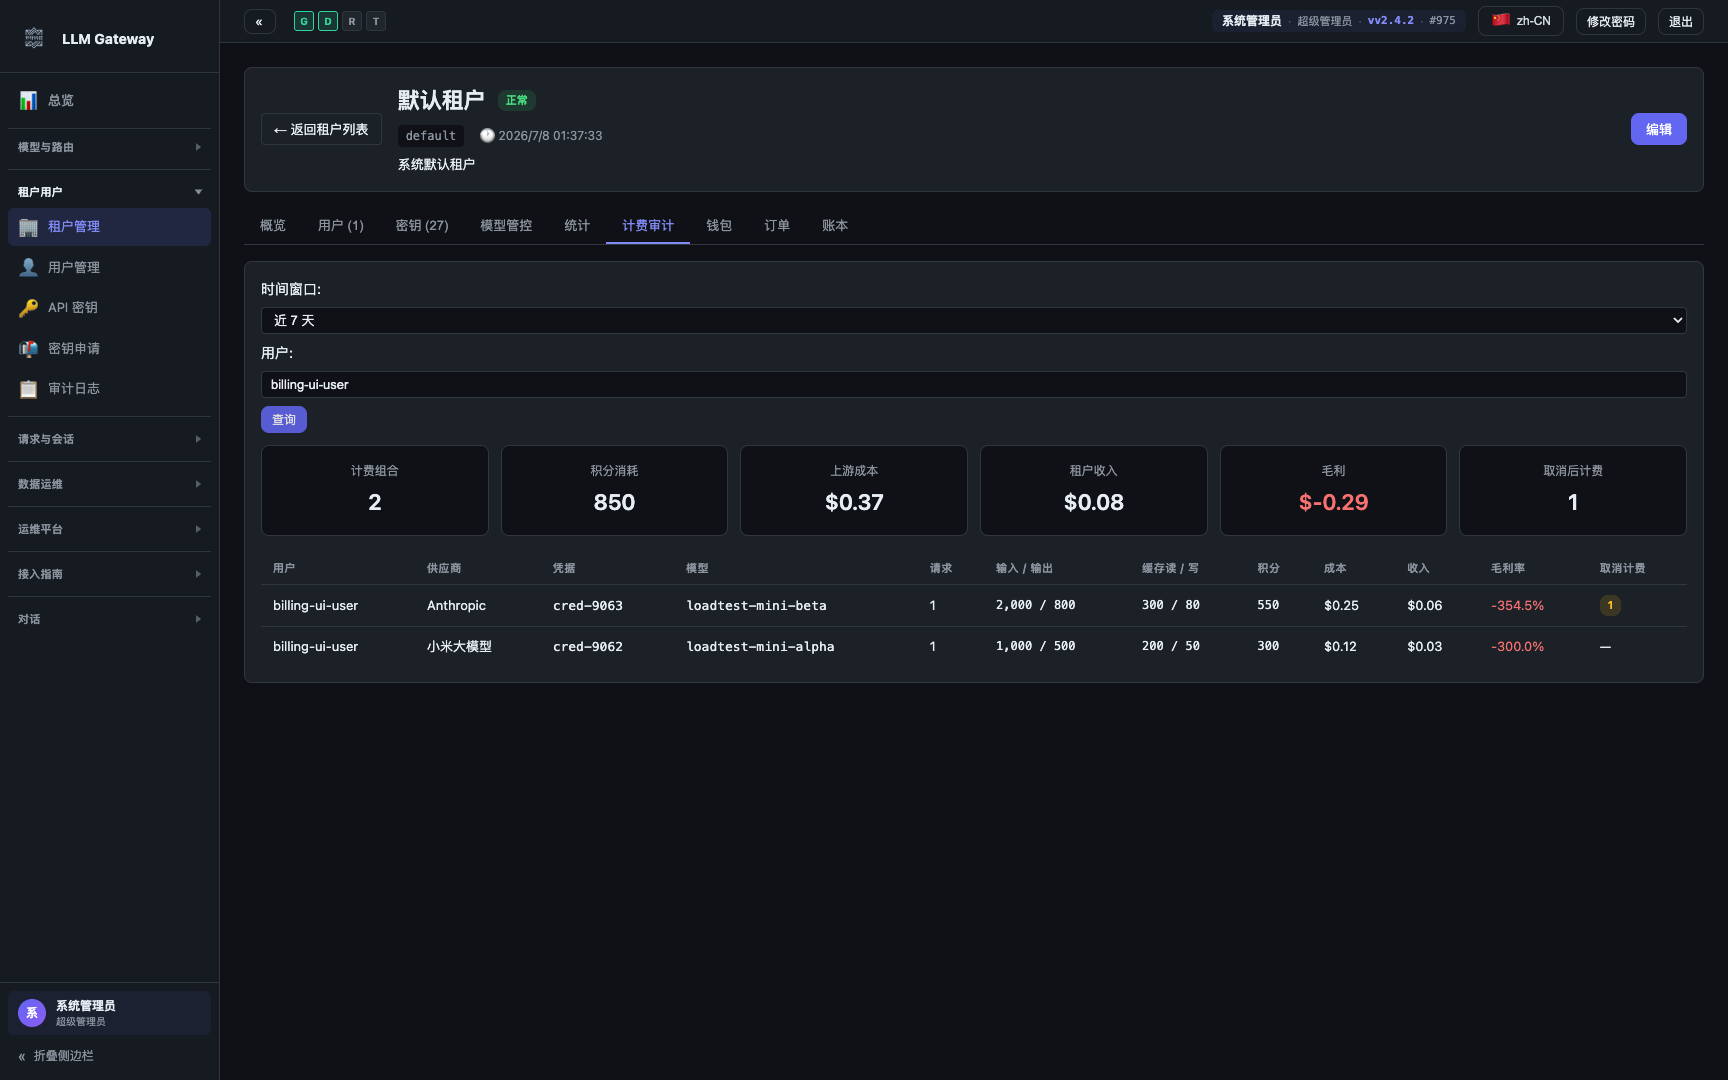
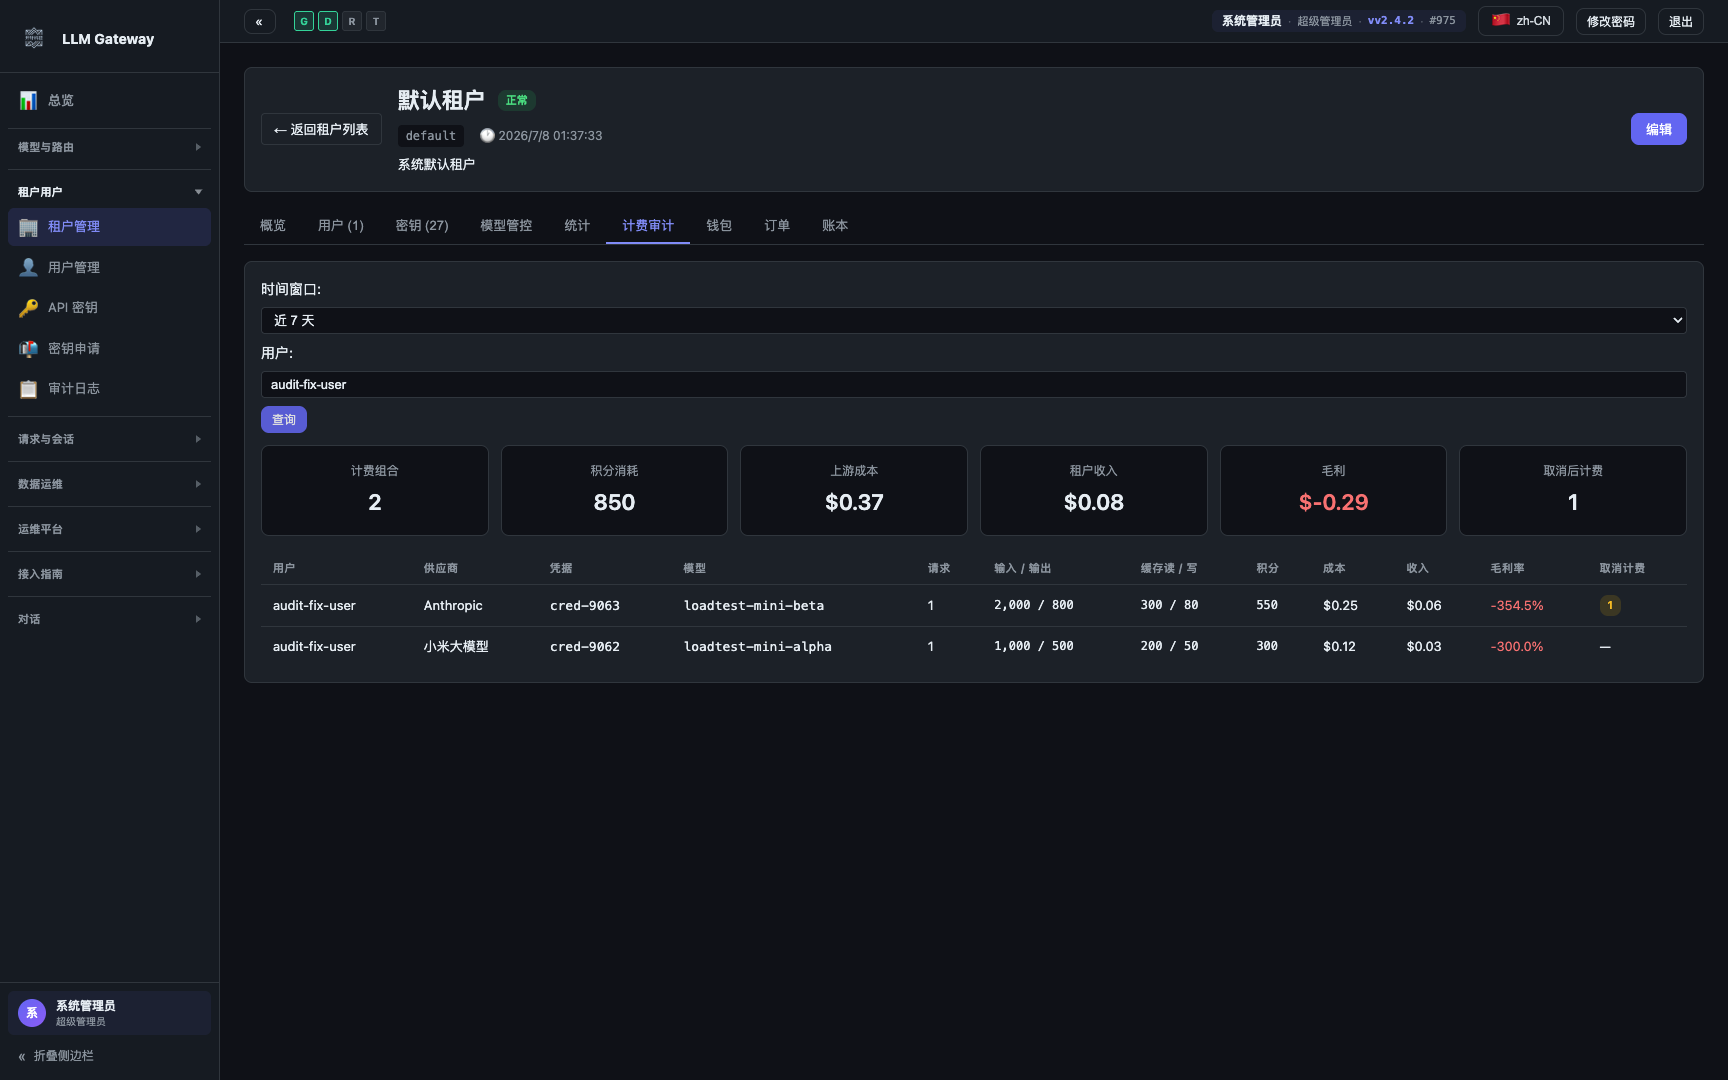
fix(billing): alias union source and reset tenant state

diff --git a/web/src/views/TenantDetailView.test.ts b/web/src/views/TenantDetailView.test.ts
@@ -2,14 +2,40 @@ import { describe, expect, it } from 'vitest'
 import { readFile } from 'node:fs/promises'
 import { resolve } from 'node:path'
 
+async function readViewSource(): Promise<string> {
+  const candidates = [
+    resolve(process.cwd(), 'web/src/views/TenantDetailView.vue'),
+    resolve(process.cwd(), 'src/views/TenantDetailView.vue'),
+  ]
+  for (const path of candidates) {
+    try {
+      return await readFile(path, 'utf8')
+    } catch {
+      // try the next candidate (running tests from repo root vs web/)
+    }
+  }
+  throw new Error('TenantDetailView.vue not found in candidate paths')
+}
+
 describe('tenant billing audit contract', () => {
   it('uses the provider, credential, model, token, and margin dimensions', async () => {
-    const source = await readFile(resolve(process.cwd(), 'web/src/views/TenantDetailView.vue'), 'utf8').catch(() =>
-      readFile(resolve(process.cwd(), 'src/views/TenantDetailView.vue'), 'utf8'))
+    const source = await readViewSource()
     expect(source).toContain("activeTab === 'billing'")
     expect(source).toContain('row.credential_label')
     expect(source).toContain('row.cache_read_tokens')
     expect(source).toContain('row.gross_margin_rate')
     expect(source).toContain('billingOwnerUser')
+  })
+
+  it('clears per-tenant state when navigating to a different tenant', async () => {
+    const source = await readViewSource()
+    expect(source).toMatch(/resetTenantScopedState\(\)/)
+    expect(source).toContain('billing.value = null')
+  })
+
+  it('refreshes billing data when filters change', async () => {
+    const source = await readViewSource()
+    expect(source).toContain('onBillingFilterChange')
+    expect(source).toMatch(/onBillingFilterChange[\s\S]*activeTab\.value === 'billing'/)
   })
 })

diff --git a/web/src/views/TenantDetailView.vue b/web/src/views/TenantDetailView.vue
@@ -45,9 +45,20 @@ const grantSaving = ref(false)
 const confirmSaving = ref<number | null>(null)
 const showCost = isPlatformOpsView()
 
+function resetTenantScopedState() {
+  users.value = []
+  keys.value = []
+  stats.value = null
+  maasWallet.value = null
+  maasLedger.value = []
+  maasOrders.value = []
+  billing.value = null
+}
+
 async function loadTenant() {
   loading.value = true
   error.value = ''
+  resetTenantScopedState()
   try {
     tenant.value = await getTenant(tenantCode.value)
     if (activeTab.value === 'users') await loadUsers()
@@ -205,6 +216,10 @@ async function switchTab(t: 'overview' | 'users' | 'keys' | 'stats' | 'billing' 
   if (t === 'wallet' && !maasWallet.value) await loadWallet()
   if (t === 'ledger' && maasLedger.value.length === 0) await loadLedger()
   if (t === 'orders' && maasOrders.value.length === 0) await loadOrders()
+}
+
+function onBillingFilterChange() {
+  if (activeTab.value === 'billing') void loadBilling()
 }
 
 async function toggleUserEnabled(u: TenantUser) {
@@ -513,7 +528,7 @@ watch(() => route.params.tenantId, loadTenant)
       <div v-if="activeTab === 'billing'" class="tab-content">
         <div class="stats-toolbar billing-toolbar">
           <label>时间窗口:</label>
-          <select v-model.number="billingDays" @change="loadBilling">
+          <select v-model.number="billingDays" @change="onBillingFilterChange">
             <option :value="1">近 1 天</option>
             <option :value="7">近 7 天</option>
             <option :value="30">近 30 天</option>

diff --git a/maas/usage.go b/maas/usage.go
@@ -60,11 +60,13 @@ func ClampUsageLimit(limit int) int {
 // requestLogsSource keeps usage queries working during upgrades where the
 // optional union view has not been created yet. request_logs_hot is an
 // independent seven-day table; request_logs contains the archived partitions.
-func requestLogsSource(days int) string {
+// The subquery MUST be aliased because PostgreSQL requires every FROM
+// subquery to have a name. The returned tuple is (FROM clause, alias).
+func requestLogsSource(days int) (string, string) {
 	if days <= 7 {
-		return "request_logs_hot"
+		return "request_logs_hot AS r", "r"
 	}
-	return "(SELECT * FROM request_logs_hot UNION ALL SELECT * FROM request_logs)"
+	return "(SELECT * FROM request_logs_hot UNION ALL SELECT * FROM request_logs) AS r", "r"
 }
 
 // QueryUsageSummary reads credits_charged + request counts for one tenant (tenant-facing; no upstream cost).
@@ -97,7 +99,7 @@ func (s *Service) queryUsageSummary(ctx context.Context, tenantID string, days, 
 	ctx, cancel := context.WithTimeout(ctx, 10*time.Second)
 	defer cancel()
 
-	logsTable := requestLogsSource(days)
+	logsTable, alias := requestLogsSource(days)
 
 	if includeCost {
 		if err := s.pool.QueryRow(ctx, `
@@ -105,8 +107,8 @@ func (s *Service) queryUsageSummary(ctx context.Context, tenantID string, days, 
 			       COALESCE(SUM(COALESCE(credits_charged, 0)), 0),
 			       COALESCE(SUM(COALESCE(cost_usd, 0)), 0)::float8
 			FROM `+logsTable+`
-			WHERE tenant_id = $1
-			  AND ts >= now() - ($2 * INTERVAL '1 day')
+			WHERE `+alias+`.tenant_id = $1
+			  AND `+alias+`.ts >= now() - ($2 * INTERVAL '1 day')
 		`, tenantID, days).Scan(&out.TotalRequests, &out.TotalCredits, &out.TotalCostUSD); err != nil {
 			return UsageSummary{}, err
 		}
@@ -114,26 +116,26 @@ func (s *Service) queryUsageSummary(ctx context.Context, tenantID string, days, 
 		SELECT COUNT(*),
 		       COALESCE(SUM(COALESCE(credits_charged, 0)), 0)
 		FROM `+logsTable+`
-		WHERE tenant_id = $1
-		  AND ts >= now() - ($2 * INTERVAL '1 day')
+		WHERE `+alias+`.tenant_id = $1
+		  AND `+alias+`.ts >= now() - ($2 * INTERVAL '1 day')
 	`, tenantID, days).Scan(&out.TotalRequests, &out.TotalCredits); err != nil {
 		return UsageSummary{}, err
 	}
 
 	modelSQL := `
-		SELECT COALESCE(NULLIF(TRIM(outbound_model), ''), NULLIF(TRIM(client_model), ''), 'unknown') AS model,
+		SELECT COALESCE(NULLIF(TRIM(r.outbound_model), ''), NULLIF(TRIM(r.client_model), ''), 'unknown') AS model,
 		       COUNT(*)::bigint,
-		       COALESCE(SUM(COALESCE(credits_charged, 0)), 0)::bigint`
+		       COALESCE(SUM(COALESCE(r.credits_charged, 0)), 0)::bigint`
 	if includeCost {
 		modelSQL += `,
-		       COALESCE(SUM(COALESCE(cost_usd, 0)), 0)::float8`
+		       COALESCE(SUM(COALESCE(r.cost_usd, 0)), 0)::float8`
 	}
 	modelSQL += `
 		FROM ` + logsTable + `
-		WHERE tenant_id = $1
-		  AND ts >= now() - ($2 * INTERVAL '1 day')
+		WHERE r.tenant_id = $1
+		  AND r.ts >= now() - ($2 * INTERVAL '1 day')
 		GROUP BY 1
-		ORDER BY COUNT(*) DESC, SUM(COALESCE(credits_charged, 0)) DESC
+		ORDER BY COUNT(*) DESC, SUM(COALESCE(r.credits_charged, 0)) DESC
 		LIMIT $3`
 
 	rows, err := s.pool.Query(ctx, modelSQL, tenantID, days, limit)
@@ -157,19 +159,19 @@ func (s *Service) queryUsageSummary(ctx context.Context, tenantID string, days, 
 	}
 
 	trendSQL := `
-		SELECT TO_CHAR(DATE(ts AT TIME ZONE 'UTC'), 'YYYY-MM-DD') AS day,
+		SELECT TO_CHAR(DATE(r.ts AT TIME ZONE 'UTC'), 'YYYY-MM-DD') AS day,
 		       COUNT(*)::bigint,
-		       COALESCE(SUM(COALESCE(credits_charged, 0)), 0)::bigint`
+		       COALESCE(SUM(COALESCE(r.credits_charged, 0)), 0)::bigint`
 	if includeCost {
 		trendSQL += `,
-		       COALESCE(SUM(COALESCE(cost_usd, 0)), 0)::float8`
+		       COALESCE(SUM(COALESCE(r.cost_usd, 0)), 0)::float8`
 	}
 	trendSQL += `
 		FROM ` + logsTable + `
-		WHERE tenant_id = $1
-		  AND ts >= now() - ($2 * INTERVAL '1 day')
-		GROUP BY DATE(ts AT TIME ZONE 'UTC')
-		ORDER BY DATE(ts AT TIME ZONE 'UTC')`
+		WHERE r.tenant_id = $1
+		  AND r.ts >= now() - ($2 * INTERVAL '1 day')
+		GROUP BY DATE(r.ts AT TIME ZONE 'UTC')
+		ORDER BY DATE(r.ts AT TIME ZONE 'UTC')`
 
 	trendRows, err := s.pool.Query(ctx, trendSQL, tenantID, days)
 	if err != nil {

diff --git a/maas/consumption_detail.go b/maas/consumption_detail.go
@@ -49,7 +49,7 @@ func (s *Service) QueryConsumptionDetail(ctx context.Context, tenantID, ownerUse
 	}
 	days = ClampUsageDays(days)
 	ownerUser = strings.TrimSpace(ownerUser)
-	logsTable := requestLogsSource(days)
+	logsTable, alias := requestLogsSource(days)
 
 	queryCtx, cancel := context.WithTimeout(ctx, 10*time.Second)
 	defer cancel()
@@ -59,43 +59,43 @@ func (s *Service) QueryConsumptionDetail(ctx context.Context, tenantID, ownerUse
 	}
 
 	query := `
-		SELECT rl.tenant_id,
-		       COALESCE(rl.api_key_owner_user, ''),
-		       rl.provider_id,
+		SELECT ` + alias + `.tenant_id,
+		       COALESCE(` + alias + `.api_key_owner_user, ''),
+		       ` + alias + `.provider_id,
 		       COALESCE(p.display_name, ''),
-		       rl.credential_id,
+		       ` + alias + `.credential_id,
 		       COALESCE(c.label, ''),
-		       rl.canonical_id,
-		       COALESCE(mc.canonical_name, NULLIF(rl.outbound_model, ''), NULLIF(rl.client_model, ''), 'unknown'),
+		       ` + alias + `.canonical_id,
+		       COALESCE(mc.canonical_name, NULLIF(` + alias + `.outbound_model, ''), NULLIF(` + alias + `.client_model, ''), 'unknown'),
 		       COUNT(*)::bigint,
-		       COALESCE(SUM(rl.prompt_tokens), 0)::bigint,
-		       COALESCE(SUM(rl.completion_tokens), 0)::bigint,
-		       COALESCE(SUM(rl.cache_read_tokens), 0)::bigint,
-		       COALESCE(SUM(rl.cache_write_tokens), 0)::bigint,
-		       COALESCE(SUM(rl.credits_charged), 0)::bigint,
-		       COALESCE(SUM(rl.cost_usd), 0)::float8,
-		       COUNT(*) FILTER (WHERE COALESCE(rl.credits_charged, 0) > 0
-		                          AND COALESCE(rl.stream_interrupted, false)
-		                          AND lower(COALESCE(rl.failure_detail_code, rl.error_kind, ''))
+		       COALESCE(SUM(` + alias + `.prompt_tokens), 0)::bigint,
+		       COALESCE(SUM(` + alias + `.completion_tokens), 0)::bigint,
+		       COALESCE(SUM(` + alias + `.cache_read_tokens), 0)::bigint,
+		       COALESCE(SUM(` + alias + `.cache_write_tokens), 0)::bigint,
+		       COALESCE(SUM(` + alias + `.credits_charged), 0)::bigint,
+		       COALESCE(SUM(` + alias + `.cost_usd), 0)::float8,
+		       COUNT(*) FILTER (WHERE COALESCE(` + alias + `.credits_charged, 0) > 0
+		                          AND COALESCE(` + alias + `.stream_interrupted, false)
+		                          AND lower(COALESCE(` + alias + `.failure_detail_code, ` + alias + `.error_kind, ''))
 		                              IN ('client_cancel', 'client_disconnected'))::bigint
-		FROM ` + logsTable + ` rl
-		LEFT JOIN providers p ON p.id = rl.provider_id
-		LEFT JOIN credentials c ON c.id = rl.credential_id
-		LEFT JOIN models_canonical mc ON mc.id = rl.canonical_id
-		WHERE rl.tenant_id = $1
-		  AND rl.ts >= now() - ($2 * INTERVAL '1 day')
-		  AND rl.credits_charged IS NOT NULL
+		FROM ` + logsTable + `
+		LEFT JOIN providers p ON p.id = ` + alias + `.provider_id
+		LEFT JOIN credentials c ON c.id = ` + alias + `.credential_id
+		LEFT JOIN models_canonical mc ON mc.id = ` + alias + `.canonical_id
+		WHERE ` + alias + `.tenant_id = $1
+		  AND ` + alias + `.ts >= now() - ($2 * INTERVAL '1 day')
+		  AND ` + alias + `.credits_charged IS NOT NULL
 	`
 	args := []any{tenantID, days}
 	if ownerUser != "" {
-		query += " AND rl.api_key_owner_user = $3\n"
+		query += " AND " + alias + ".api_key_owner_user = $3\n"
 		args = append(args, ownerUser)
 	}
 	query += `
-		GROUP BY rl.tenant_id, rl.api_key_owner_user, rl.provider_id, p.display_name,
-		         rl.credential_id, c.label, rl.canonical_id, mc.canonical_name,
-		         rl.outbound_model, rl.client_model
-		ORDER BY SUM(rl.credits_charged) DESC, COUNT(*) DESC`
+		GROUP BY ` + alias + `.tenant_id, ` + alias + `.api_key_owner_user, ` + alias + `.provider_id, p.display_name,
+		         ` + alias + `.credential_id, c.label, ` + alias + `.canonical_id, mc.canonical_name,
+		         ` + alias + `.outbound_model, ` + alias + `.client_model
+		ORDER BY SUM(` + alias + `.credits_charged) DESC, COUNT(*) DESC`
 
 	rows, err := s.pool.Query(queryCtx, query, args...)
 	if err != nil {

diff --git a/domains/streaming/billing_test.go b/domains/streaming/billing_test.go
@@ -13,22 +13,26 @@ func TestShouldChargeUsage(t *testing.T) {
 		errorKind             *string
 		prompt, completion    int
 		cacheRead, cacheWrite int
+		streamChunkCount      int
 		want                  bool
 	}{
-		{name: "successful upstream request", success: true, prompt: 10, want: true},
-		{name: "successful request without stage", success: true, prompt: 10, want: true},
-		{name: "client cancelled after upstream usage", success: false, failureStage: stage("upstream"), prompt: 10, want: true},
-		{name: "client cancelled without stage", success: false, errorKind: kind("client_cancel"), prompt: 10, want: true},
-		{name: "gateway auth failure", failureStage: stage("auth"), prompt: 10, want: false},
-		{name: "routing failure", failureStage: stage("routing"), completion: 10, want: false},
-		{name: "unknown failed stage", failureStage: stage("unknown"), completion: 10, want: false},
-		{name: "empty response", success: false, failureStage: stage("upstream"), errorKind: kind("empty_response"), completion: 10, want: false},
-		{name: "no usage", success: true, want: false},
+		{name: "successful upstream request", success: true, prompt: 10, streamChunkCount: 4, want: true},
+		{name: "successful request without stage", success: true, prompt: 10, streamChunkCount: 4, want: true},
+		{name: "client cancelled after upstream usage", success: false, failureStage: stage("upstream"), prompt: 10, streamChunkCount: 3, want: true},
+		{name: "client cancelled without stage but chunks", success: false, errorKind: kind("client_cancel"), prompt: 10, streamChunkCount: 2, want: true},
+		{name: "client cancelled with no chunks", success: false, errorKind: kind("client_cancel"), failureStage: stage("upstream"), prompt: 10, streamChunkCount: 0, want: false},
+		{name: "client disconnected with chunks", success: false, errorKind: kind("client_disconnected"), failureStage: stage("upstream"), prompt: 10, streamChunkCount: 5, want: true},
+		{name: "client disconnected with no chunks", success: false, errorKind: kind("client_disconnected"), prompt: 10, streamChunkCount: 0, want: false},
+		{name: "gateway auth failure", failureStage: stage("auth"), prompt: 10, streamChunkCount: 1, want: false},
+		{name: "routing failure", failureStage: stage("routing"), completion: 10, streamChunkCount: 1, want: false},
+		{name: "unknown failed stage", failureStage: stage("unknown"), completion: 10, streamChunkCount: 1, want: false},
+		{name: "empty response", success: false, failureStage: stage("upstream"), errorKind: kind("empty_response"), completion: 10, streamChunkCount: 1, want: false},
+		{name: "no usage", success: true, streamChunkCount: 0, want: false},
 	}
 
 	for _, tt := range tests {
 		t.Run(tt.name, func(t *testing.T) {
-			got := shouldChargeUsage(tt.success, tt.failureStage, tt.errorKind, tt.prompt, tt.completion, tt.cacheRead, tt.cacheWrite, 1)
+			got := shouldChargeUsage(tt.success, tt.failureStage, tt.errorKind, tt.prompt, tt.completion, tt.cacheRead, tt.cacheWrite, tt.streamChunkCount)
 			if got != tt.want {
 				t.Fatalf("shouldChargeUsage() = %v, want %v", got, tt.want)
 			}

diff --git a/maas/usage_test.go b/maas/usage_test.go
@@ -1,6 +1,10 @@
 package maas
 
-import "testing"
+import (
+	"encoding/json"
+	"strings"
+	"testing"
+)
 
 func TestClampUsageDays(t *testing.T) {
 	tests := []struct {
@@ -20,11 +24,14 @@ func TestClampUsageDays(t *testing.T) {
 }
 
 func TestRequestLogsSource(t *testing.T) {
-	if got := requestLogsSource(7); got != "request_logs_hot" {
-		t.Fatalf("requestLogsSource(7) = %q", got)
+	source, alias := requestLogsSource(7)
+	if source != "request_logs_hot AS r" || alias != "r" {
+		t.Fatalf("requestLogsSource(7) = %q/%q", source, alias)
 	}
-	if got := requestLogsSource(30); got != "(SELECT * FROM request_logs_hot UNION ALL SELECT * FROM request_logs)" {
-		t.Fatalf("requestLogsSource(30) = %q", got)
+	source, alias = requestLogsSource(30)
+	want := "(SELECT * FROM request_logs_hot UNION ALL SELECT * FROM request_logs) AS r"
+	if source != want || alias != "r" {
+		t.Fatalf("requestLogsSource(30) = %q/%q", source, alias)
 	}
 }
 
@@ -50,5 +57,58 @@ func TestQueryUsageSummary_requiresTenant(t *testing.T) {
 	_, err := svc.QueryUsageSummary(t.Context(), "", 7, 10)
 	if err == nil {
 		t.Fatal("expected error for empty tenant")
+	}
+}
+
+func TestQueryConsumptionDetail_requiresTenant(t *testing.T) {
+	svc := NewService(nil)
+	_, err := svc.QueryConsumptionDetail(t.Context(), "", "", 7)
+	if err == nil {
+		t.Fatal("expected error for empty tenant")
+	}
+}
+
+func TestConsumptionDetailRowResponseShape(t *testing.T) {
+	// Sanity-check that the response marshals the documented fields so
+	// frontend types stay in sync with the backend contract.
+	out := ConsumptionDetail{
+		TenantID:       "default",
+		Days:           7,
+		CentsPerCredit: 0.1,
+		Rows: []ConsumptionDetailRow{
+			{
+				TenantID:                "default",
+				OwnerUser:               "alice",
+				ProviderName:            "OpenAI",
+				CredentialLabel:         "cred-1",
+				Model:                   "gpt-4o",
+				Requests:                10,
+				PromptTokens:            100,
+				CompletionTokens:        50,
+				CacheReadTokens:         20,
+				CacheWriteTokens:        5,
+				CreditsCharged:          300,
+				UpstreamCostUSD:         0.12,
+				TenantRevenueUSD:        0.30,
+				GrossMarginUSD:          0.18,
+				GrossMarginRate:         0.6,
+				CancelledBilledRequests: 1,
+			},
+		},
+	}
+	// Round-trip via JSON to surface contract drift early.
+	raw, err := json.Marshal(out)
+	if err != nil {
+		t.Fatalf("marshal: %v", err)
+	}
+	body := string(raw)
+	for _, field := range []string{
+		"provider_name", "credential_label", "cache_read_tokens", "cache_write_tokens",
+		"upstream_cost_usd", "tenant_revenue_usd", "gross_margin_usd", "gross_margin_rate",
+		"cancelled_billed_requests",
+	} {
+		if !strings.Contains(body, field) {
+			t.Errorf("missing %s in marshalled output", field)
+		}
 	}
 }
